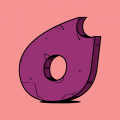
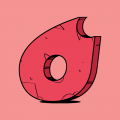
webapp images. loader. cards updates.

diff --git a/source/sass/modules/_main.scss b/source/sass/modules/_main.scss
@@ -28,10 +28,6 @@
     justify-content: center;
     flex-wrap: wrap;
     margin: 0 (-($padding-1 / 2));
-
-    // @include respond( $break-laptop-medium ) {
-    //     justify-content: space-around;
-    // }
 }
 .events__listing {
     display: inline-block;
@@ -81,12 +77,16 @@
 .decks {
     display: flex;
     align-items: center;
-    justify-content: flex-start;
-    // overflow-y: hidden;
-    // overflow-x: hidden;
     white-space: nowrap;
     position: relative;
     user-select: none;
+    min-height: 480px;
+    justify-content: center;
+
+    &.is-loaded {
+        min-height: auto;
+        justify-content: flex-start;
+    }
 }
 .decks__belt {
     transition: transform $base-duration $ease;
@@ -105,6 +105,12 @@
     display: flex;
     align-items: center;
     justify-content: space-between;
+    opacity: 0;
+    transition: opacity $base-duration $ease;
+
+    .is-loaded & {
+        opacity: 1;
+    }
 }
 .decks__left,
 .decks__right {
@@ -139,10 +145,14 @@
     padding: 0 ($baseunit);
     box-sizing: content-box;
     white-space: normal;
-    opacity: 0.5;
+    opacity: 0;
     transform: translate3d( 0, 0, 0 );
     transition: opacity $base-duration $ease,
                 transform $base-duration $ease;
+
+    .is-loaded & {
+        opacity: 0.5;
+    }
 
     @include respond( $break-tablet-full ) {
         width: 224px;
@@ -213,6 +223,39 @@
         .p {
             color: $sunrise;
         }
+    }
+    &[data-card="tropical-flame"] {
+        color: $tropical;
+    }
+    &[data-card="sunrise-flame"] {
+        color: $sunrise;
+    }
+    &[data-card="heatwave-flame"] {
+        color: $heatwave;
+    }
+    &[data-card="sunset-flame"] {
+        color: $sunset;
+    }
+    &[data-card="paradise-flame"] {
+        color: $paradise;
+    }
+    &[data-card="daybreak-flame"] {
+        color: $daybreak;
+    }
+    &[data-card="palmtree-flame"] {
+        color: $palmtree;
+    }
+    &[data-card="seafoam-flame"] {
+        color: $seafoam;
+    }
+    &[data-card="ocean-flame"] {
+        color: $ocean;
+    }
+    &[data-card="beachtowel-flame"] {
+        color: $beachtowel;
+    }
+    &[data-card="deepsea-flame"] {
+        color: $deepsea;
     }
 }
 .deck__card__graphic {}

diff --git a/source/sass/modules/_loading.scss b/source/sass/modules/_loading.scss
@@ -1,0 +1,47 @@
+$offset: 187 / 2;
+$duration: 1000ms;
+$size: 45px;
+
+.loading {
+    height: $size;
+    width: $size;
+    display: inline-block;
+}
+
+.spinner {
+    animation: rotator $duration linear infinite;
+}
+
+@keyframes rotator {
+    0% { transform: rotate( 0deg ); }
+    100% { transform: rotate( 270deg ); }
+}
+
+.path {
+    stroke: $tropical;
+    stroke-dasharray: $offset;
+    stroke-dashoffset: 0;
+    transform-origin: center;
+    animation: dash $duration ease-in-out infinite,
+               colors ($duration * 4) ease-in-out infinite;
+}
+
+@keyframes colors {
+    0% { stroke: $pink; }
+    25% { stroke: $pink; }
+    50% { stroke: $pink; }
+    75% { stroke: $pink; }
+    100% { stroke: $pink; }
+}
+
+@keyframes dash {
+    0% { stroke-dashoffset: $offset; }
+    50% {
+        stroke-dashoffset: $offset / 4;
+        transform:rotate( 135deg );
+    }
+    100% {
+        stroke-dashoffset: $offset;
+        transform:rotate( 450deg );
+    }
+}

diff --git a/source/js/class/components/Decks.js b/source/js/class/components/Decks.js
@@ -25,11 +25,15 @@ class Decks {
         };
 
         this.bind();
-        this.move();
     }
 
 
     bind () {
+        this.view.imageLoader.on( "done", () => {
+            this.view.element.addClass( "is-loaded" );
+            this.move();
+        });
+
         this.resizer.on( "resize", () => {
             if ( ((window.innerWidth < this.breaks.tablet.width) && !this.breaks.tablet.hit) ) {
                 this.breaks.tablet.hit = true;

diff --git a/source/sass/screen.scss b/source/sass/screen.scss
@@ -25,6 +25,7 @@
 @import "modules/header";
 @import "modules/footer";
 @import "modules/navi";
+@import "modules/loading";
 
 
 
